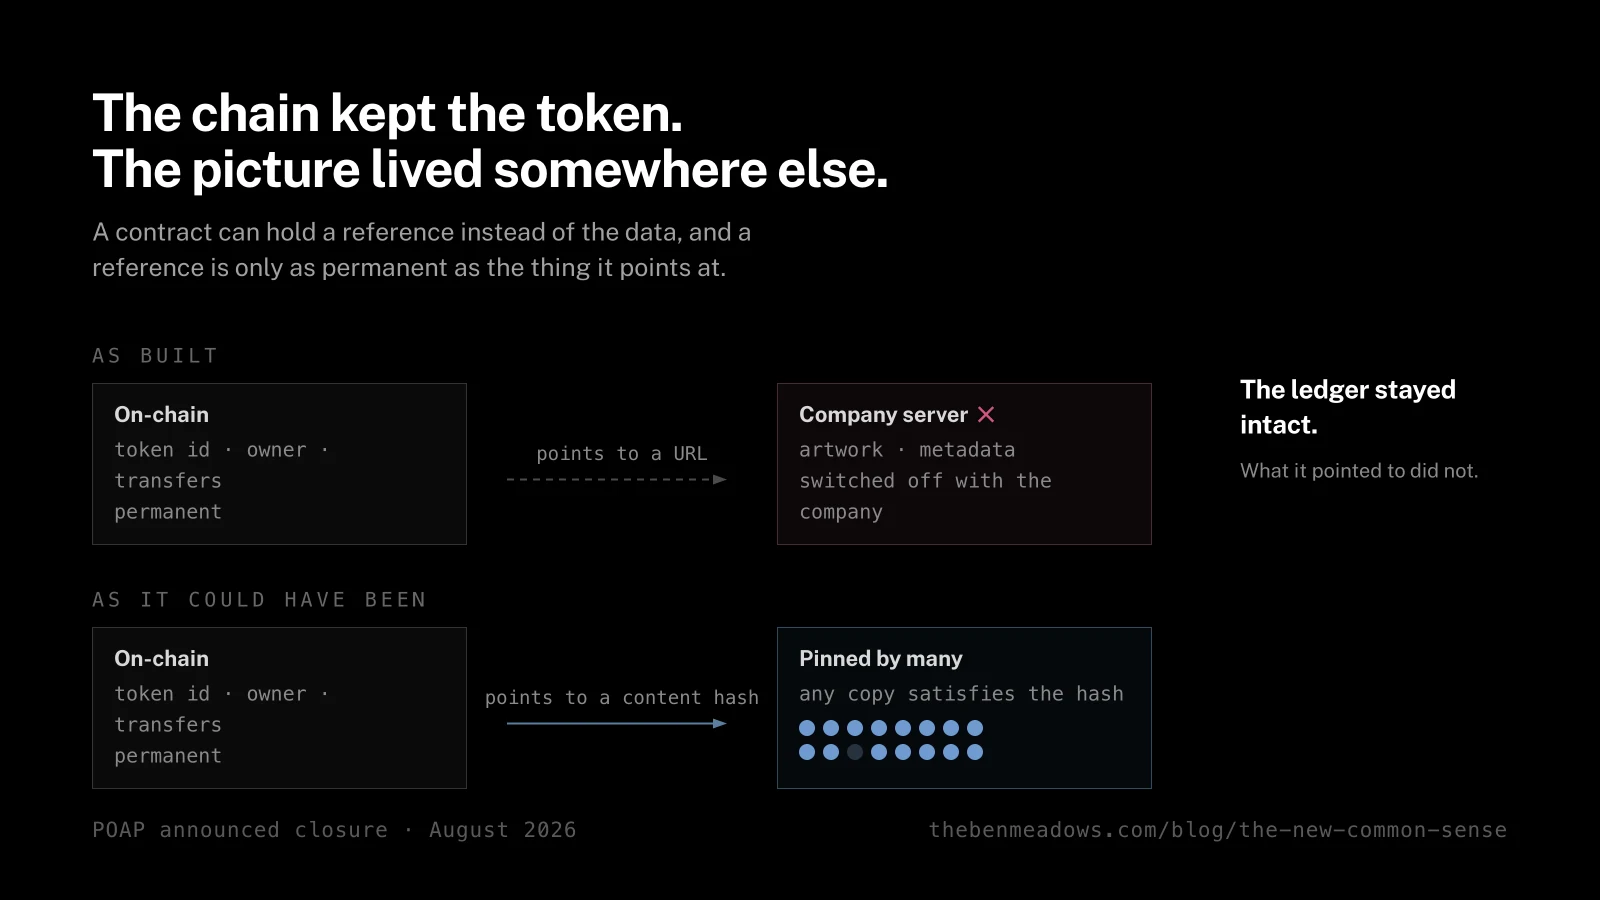
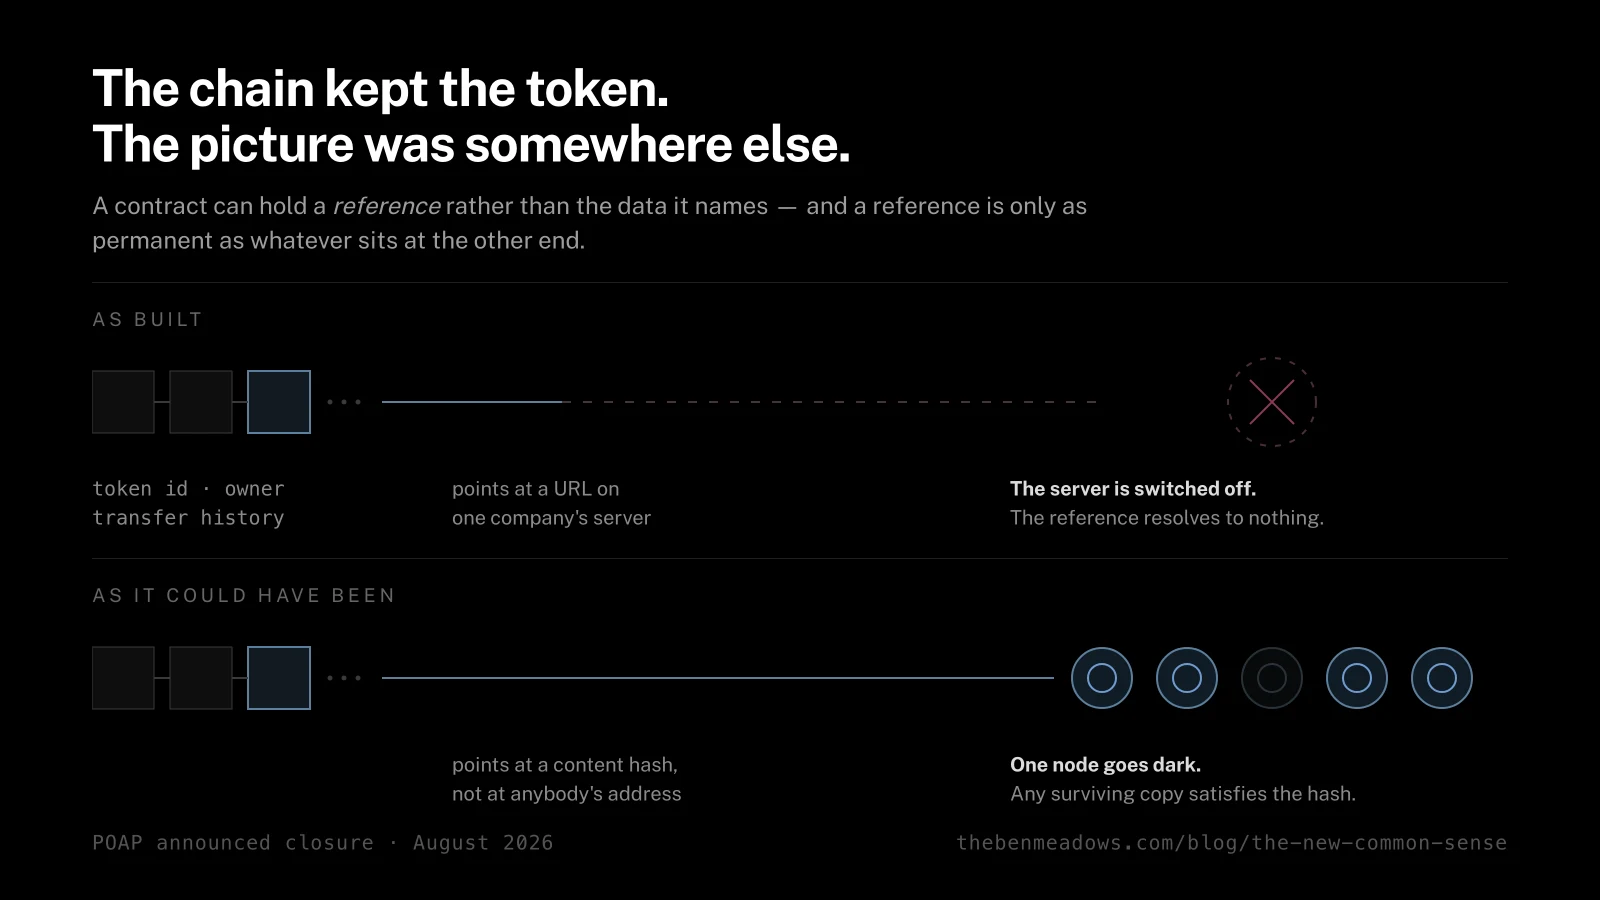
Redesign the diagram, and give the post a header that makes her argument
DIAGRAM. The first pass drew the dangling reference pointing at a box that
was still there, tinted red, which is the opposite of what the paragraph
says. It also labelled everything and showed nothing: three rectangles with
text is a wireframe.

Redrawn. The ledger is now linked blocks rather than a box captioned
'On-chain'. The reference leaves the chain solid, goes dashed where it
leaves the chain's guarantees, and then stops -- with the artwork's place
left as an empty broken ring beyond a visible gap. The gap is the argument.
The second band runs on the same axis so only the right-hand end changes:
five copies of the badge, one dark, nothing lost.

HEADER. The Common Sense title page is out; Ben is right that an 851x1536
portrait scan makes a 1300px slab of a full-width block. In its place, the
parallel she actually draws -- Paine's pamphlet and Satoshi's paper, 232
years apart, under her own sentence about power that no single participant
can exercise alone. Verified verbatim against her text before setting it in
type under her name.

Both 1600x900 on black in the idiom of the essentialism cards. 33 KB and
52 KB, and alt text on each describes what it shows rather than naming it.

Also fixes a bug this surfaced: /projects/poap-saver/ writes its title with
&middot; while /art/essentialism/ uses a literal middot, so the see-also
row rendered 'POAP Saver &middot; TheBenMeadows' -- the suffix strip missed
[…]

diff --git a/blog/posts/the-new-common-sense.md b/blog/posts/the-new-common-sense.md
@@ -4,6 +4,8 @@ subtitle: "Addressed to the Inhabitants of America"
 date: 2026-08-18
 author: lauren
 tags: [Bitcoin, Blockchain, Opinion, Technology]
+image: /blog/media/the-new-common-sense/two-pamphlets.webp
+image_alt: "Two title cards side by side, 232 years apart: Common Sense, addressed to the inhabitants of America, Thomas Paine, 1776; and Bitcoin, a peer-to-peer electronic cash system, Satoshi Nakamoto, 2008. Beneath them a line from the post: power is distributed so that no single participant can exercise unilateral authority."
 related: [/projects/poap-saver/]
 description: "The battle lines of human freedom are no longer being fought over physical territory, but computer literacy, cryptographic sovereignty, and access to information without corporate intermediation."
 ---
